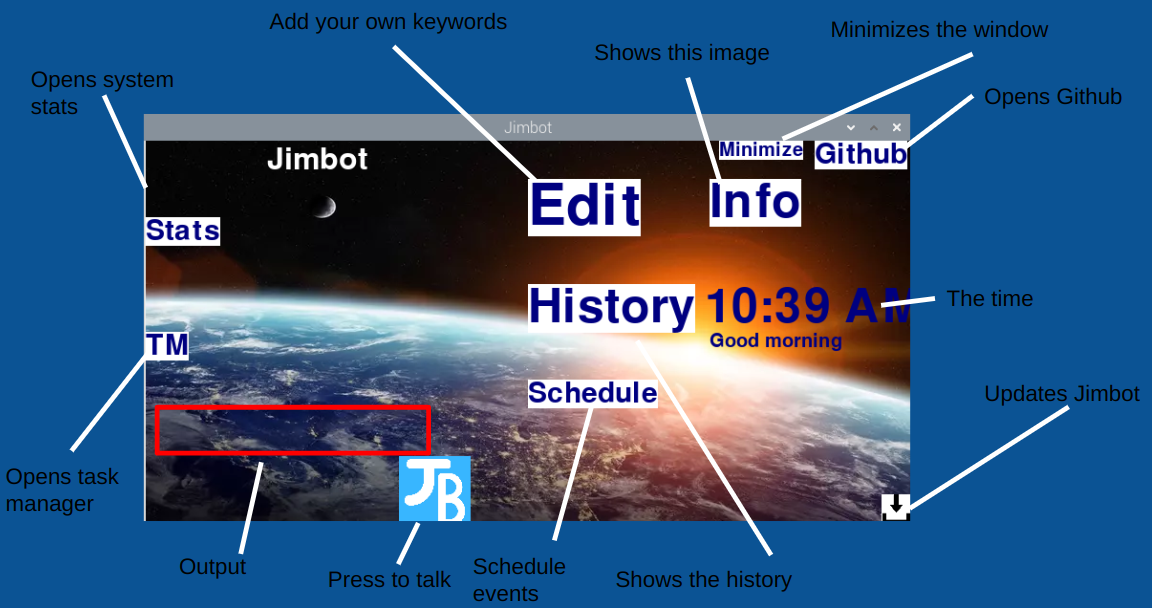
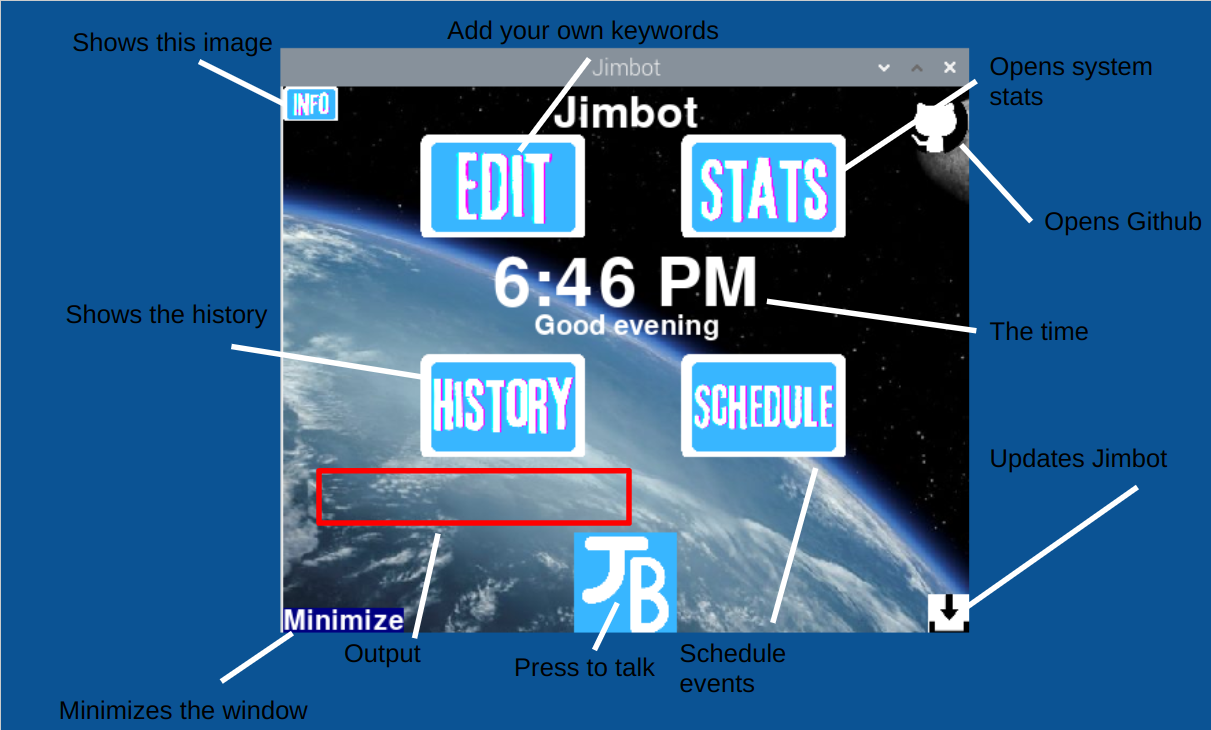
Made changes to UI

diff --git a/Python/Jimbot_Windows.py b/Python/Jimbot_Windows.py
@@ -71,8 +71,8 @@ import pygame
 pygame.init()
 white = (255, 255, 255)
 green = (0, 255, 0)
-blue = (0, 0, 128)
-X = 800
+blue = (56, 182, 255)
+X = 500
 Y = 400
 window_icon=pygame.image.load(file_location+'/Jimbot/images/Jimbot.png')
 display_surface = pygame.display.set_mode((X, Y))
@@ -81,23 +81,60 @@ pygame.display.set_icon(window_icon)
 font = pygame.font.Font('freesansbold.ttf', 32)
 header = font.render('Jimbot', True, white)
 textRect = header.get_rect()
-textRect.center = (180, 20)
+textRect.center = (250, 20)
 backg = pygame.image.load(backgn).convert()
 backg= pygame.transform.scale(backg, (800, 400))
-display_surface.fill(blue)
-display_surface.blit(pygame.font.Font('freesansbold.ttf', 60).render("Edit", True, blue, white), (400, 40))
-display_surface.blit(pygame.font.Font('freesansbold.ttf', 30).render("Github", True, blue, white), (700, 0))
-display_surface.blit(pygame.font.Font('freesansbold.ttf', 50).render("History", True, blue, white), (400, 150))
-display_surface.blit(pygame.font.Font('freesansbold.ttf', 50).render(currentTime, True, white, blue), (585, 150))
-display_surface.blit(pygame.font.Font('freesansbold.ttf', 20).render(tofdy, True, white, blue), (590, 200))
-display_surface.blit(pygame.font.Font('freesansbold.ttf', 50).render("Info", True, blue, white), (590, 40))
+display_surface.blit(backg, (-150, 0))
+    
+edit = pygame.image.load(file_location+"/Jimbot/images/Edit.png").convert_alpha()
+edit= pygame.transform.scale(edit, (120, 75))
+display_surface.blit(edit, (100, 35))
+    
+history = pygame.image.load(file_location+"/Jimbot/images/History.png").convert_alpha()
+history= pygame.transform.scale(history, (120, 75))
+display_surface.blit(history, (100, 195))
+    
+stats = pygame.image.load(file_location+"/Jimbot/images/Stats.png").convert_alpha()
+stats= pygame.transform.scale(stats, (120, 75))
+display_surface.blit(stats, (290, 35))
+    
+info = pygame.image.load(file_location+"/Jimbot/images/Info.png").convert_alpha()
+info= pygame.transform.scale(info, (40, 25))
+display_surface.blit(info, (0, 0))
+    
+        
+schedule = pygame.image.load(file_location+"/Jimbot/images/Schedule.png").convert_alpha()
+schedule= pygame.transform.scale(schedule, (120, 75))
+display_surface.blit(schedule, (290, 195))
+    
+    
+clock=pygame.font.Font('freesansbold.ttf', 50).render(currentTime, True, white)
+clockRect=clock.get_rect()
+clockRect.center=(250,145)
+display_surface.blit(clock, clockRect)
+    
+clockb=pygame.font.Font('freesansbold.ttf', 20).render(tofdy, True, white)
+clockRectb=clockb.get_rect()
+clockRectb.center=(250,175)
+display_surface.blit(clockb, clockRectb)
+    
+display_surface.blit(pygame.font.Font('freesansbold.ttf', 20).render("Minimize", True, white, blue), (0, 380))
+    
 display_surface.blit(header, textRect)
-pygame.draw.line(display_surface, white,
-                 [300, 300],
-                 [300, 0], 10)
+    
+dowb = pygame.image.load(file_location+"/Jimbot/images/downloadbutton.png").convert()
+dowb= pygame.transform.scale(dowb, (30, 30))
+display_surface.blit(dowb, (470, 370))
+    
 imp = pygame.image.load(file_location+"/Jimbot/images/Jimbot.png").convert()
 img= pygame.transform.scale(imp, (75, 75))
-display_surface.blit(img, (265, 330))
+display_surface.blit(img, (212.5, 325))
+    
+github = pygame.image.load(file_location+"/Jimbot/images/github.png").convert_alpha()
+github= pygame.transform.scale(github, (50, 50))
+pygame.draw.circle(display_surface, white, (475, 25),(23))
+display_surface.blit(github, (450, 0))
+    
 pygame.display.flip()
 pygame.display.update()
 # Print to the GUI
@@ -111,7 +148,7 @@ def print(bpg):
         tdply=bpg+"                                                                                                                             "
         bpg1 = font.render(tdply, True, white, blue)
         thi = bpg1.get_rect()
-        display_surface.blit(bpg1, (20, 300))
+        display_surface.blit(bpg1, (0, 300))
         pygame.display.update()
     else:
         pass
@@ -830,7 +867,7 @@ def refresh():
     if size == 1:
         normal()
         if switchsize == 1:
-            X = 800
+            X = 500
             Y = 400
             display_surface = pygame.display.set_mode((X, Y))
             switchsize=0  
@@ -842,33 +879,62 @@ def refresh():
             display_surface = pygame.display.set_mode((X, Y))
             switchsize=0
 def normal():
-    backg = pygame.image.load(backgn).convert()
-    backg= pygame.transform.scale(backg, (800, 400))
-    display_surface.blit(backg, (0, 0))
-    display_surface.blit(pygame.font.Font('freesansbold.ttf', 60).render("Edit", True, blue, white), (400, 40))
-    display_surface.blit(pygame.font.Font('freesansbold.ttf', 30).render("Github", True, blue, white), (700, 0))
-    display_surface.blit(pygame.font.Font('freesansbold.ttf', 50).render("History", True, blue, white), (400, 150))
-    if backgn == file_location+"/Jimbot/images/background.jpg":
-        display_surface.blit(pygame.font.Font('freesansbold.ttf', 50).render(currentTime, True, white), (585, 150))
-        display_surface.blit(pygame.font.Font('freesansbold.ttf', 20).render(tofdy, True, white), (590, 200))
-    else:
-        display_surface.blit(pygame.font.Font('freesansbold.ttf', 50).render(currentTime, True, blue), (585, 150))
-        display_surface.blit(pygame.font.Font('freesansbold.ttf', 20).render(tofdy, True, blue), (590, 200))
-    display_surface.blit(pygame.font.Font('freesansbold.ttf', 50).render("Info", True, blue, white), (590, 40))
-    display_surface.blit(pygame.font.Font('freesansbold.ttf', 30).render("Stats", True, blue, white), (0, 80))
-    display_surface.blit(pygame.font.Font('freesansbold.ttf', 30).render(TM_var, True, blue, white), (0, 200))
-    display_surface.blit(pygame.font.Font('freesansbold.ttf', 30).render("Schedule", True, blue, white), (400, 250))
-    display_surface.blit(pygame.font.Font('freesansbold.ttf', 20).render("Minimize", True, blue, white), (600, 0))
     header = font.render('Jimbot', True, white)
     textRect = header.get_rect()
-    textRect.center = (180, 20)
+    textRect.center = (250, 20)
+    backg = pygame.image.load(backgn).convert()
+    backg= pygame.transform.scale(backg, (800, 400))
+    display_surface.blit(backg, (-150, 0))
+    
+    edit = pygame.image.load(file_location+"/Jimbot/images/Edit.png").convert_alpha()
+    edit= pygame.transform.scale(edit, (120, 75))
+    display_surface.blit(edit, (100, 35))
+    
+    history = pygame.image.load(file_location+"/Jimbot/images/History.png").convert_alpha()
+    history= pygame.transform.scale(history, (120, 75))
+    display_surface.blit(history, (100, 195))
+    
+    stats = pygame.image.load(file_location+"/Jimbot/images/Stats.png").convert_alpha()
+    stats= pygame.transform.scale(stats, (120, 75))
+    display_surface.blit(stats, (290, 35))
+    
+    info = pygame.image.load(file_location+"/Jimbot/images/Info.png").convert_alpha()
+    info= pygame.transform.scale(info, (40, 25))
+    display_surface.blit(info, (0, 0))
+    
+        
+    schedule = pygame.image.load(file_location+"/Jimbot/images/Schedule.png").convert_alpha()
+    schedule= pygame.transform.scale(schedule, (120, 75))
+    display_surface.blit(schedule, (290, 195))
+    
+    
+    clock=pygame.font.Font('freesansbold.ttf', 50).render(currentTime, True, white)
+    clockRect=clock.get_rect()
+    clockRect.center=(250,145)
+    display_surface.blit(clock, clockRect)
+    
+    clockb=pygame.font.Font('freesansbold.ttf', 20).render(tofdy, True, white)
+    clockRectb=clockb.get_rect()
+    clockRectb.center=(250,175)
+    display_surface.blit(clockb, clockRectb)
+    
+    display_surface.blit(pygame.font.Font('freesansbold.ttf', 20).render("Minimize", True, white, blue), (0, 380))
+    
     display_surface.blit(header, textRect)
+    
     dowb = pygame.image.load(file_location+"/Jimbot/images/downloadbutton.png").convert()
     dowb= pygame.transform.scale(dowb, (30, 30))
-    display_surface.blit(dowb, (770, 370))
+    display_surface.blit(dowb, (470, 370))
+    
     imp = pygame.image.load(file_location+"/Jimbot/images/Jimbot.png").convert()
     img= pygame.transform.scale(imp, (75, 75))
-    display_surface.blit(img, (265, 330))
+    display_surface.blit(img, (gameypos, 325))
+    
+    github = pygame.image.load(file_location+"/Jimbot/images/github.png").convert_alpha()
+    github= pygame.transform.scale(github, (50, 50))
+    pygame.draw.circle(display_surface, white, (475, 25),(23))
+    display_surface.blit(github, (450, 0))
+    
     pygame.display.update()
 def minimize():
     global header
@@ -911,19 +977,19 @@ def print(bpg):
     else:
         pass
 #Easter egg
-ax1=random.choice(range(0,800))
+ax1=random.choice(range(0,500))
 ay1=0
 
-ax2=random.choice(range(0,800))
+ax2=random.choice(range(0,500))
 ay2=random.choice(range(-100,0))
 
-ax3=random.choice(range(0,800))
+ax3=random.choice(range(0,500))
 ay3=random.choice(range(-200,-100))
 
-ax4=random.choice(range(0,800))
+ax4=random.choice(range(0,500))
 ay4=random.choice(range(-300,-200))
 
-ax5=random.choice(range(0,800))
+ax5=random.choice(range(0,500))
 ay5=random.choice(range(-500,-400))
 
 gamescore=0
@@ -966,11 +1032,13 @@ user_text=''
 resthre=0
 spekretno=0
 brkbt=False
-gameypos=265
+gameypos=212.5
 refresh()
 f10k=False
 # No longer defining things
 while True:
+    # Set up UI
+    refresh()
     # Tell when/what key is pressed
     keyi=pygame.key.get_pressed()
     keypressed=False
@@ -1006,31 +1074,23 @@ while True:
         backgn=file_location+"/Jimbot/images/backgroundm.jpg"
     else:
         backgn=file_location+"/Jimbot/images/background.jpg"
-    # Set up Task Manager button
-    x, y =pygame.mouse.get_pos()
-    if x<=45 and y>=200 and y<=230:
-        TM_var="Task Manager"
-        refresh()
-    else:
-        TM_var="TM"
-        refresh()
     # Set up buttons and inputs
     brk =0
     for event in pygame.event.get():
         # Easter egg
-        ax1=random.choice(range(0,800))
+        ax1=random.choice(range(0,500))
         ay1=0
 
-        ax2=random.choice(range(0,800))
+        ax2=random.choice(range(0,500))
         ay2=random.choice(range(-100,0))
 
-        ax3=random.choice(range(0,800))
+        ax3=random.choice(range(0,500))
         ay3=random.choice(range(-200,-100))
 
-        ax4=random.choice(range(0,800))
+        ax4=random.choice(range(0,500))
         ay4=random.choice(range(-300,-200))
 
-        ax5=random.choice(range(0,800))
+        ax5=random.choice(range(0,500))
         ay5=random.choice(range(-500,-400))
         gamescore=0
         if event.type == pygame.KEYDOWN and event.key == pygame.K_LEFT or event.type == pygame.KEYDOWN and event.key == pygame.K_RIGHT:
@@ -1098,6 +1158,7 @@ while True:
             if size == 1:
                 print('Game over. Score: '+str(gamescore))
                 time.sleep(3)
+                gameypos=212.5
         elif event.type == pygame.KEYDOWN and event.key == pygame.K_DOWN:
             break
         elif event.type == pygame.KEYDOWN and event.key == pygame.K_UP:
@@ -1190,9 +1251,9 @@ while True:
             if brkbt==True or event.type == pygame.KEYDOWN or keypressed==True:
                 brkbt=False
                 break
-            elif f10k==False and x >=700 and y <= 35 and not spekret == 1:
+            elif f10k==False and x>=450 and y>=0 and x<=500 and y<=50 and not spekret == 1:
                 os.system('xdg-open https://github.com/Mrpi314tech/Jimbot &')
-            elif f10k==False and x >=400 and x<= 515 and y >= 40 and y <= 100 and not spekret == 1:
+            elif f10k==False and x>=100 and y>=35 and x<=220 and y<=110 and not spekret == 1:
                 os.system('~/Jimbot/Bash/Jimbotterminal python3 '+file_location+'/Jimbot/Python/Jimbotedit.py &')
                 try:
                     import new_words as aword
@@ -1204,29 +1265,29 @@ while True:
                     import Python.new_com as acom
                 nwcoml=acom.word
                 nrunl=acom.com
-            elif f10k==False and x >=590 and x<= 685 and y >= 40 and y <= 90 and not spekret == 1:
+            elif f10k==False and x>=0 and y>=0 and x<=40 and y<=25 and not spekret == 1:
                 os.system("xdg-open "+file_location+"/Jimbot/images/HowTo.jpg &")
-            elif f10k==False and x >=400 and x<= 570 and y >= 150 and y <= 200 and not spekret == 1:
+            elif f10k==False and x>=100 and y>=195 and x<=220 and y<=270 and not spekret == 1:
                 os.system('~/Jimbot/Bash/Jimbotterminal "cat ~/Jimbot/Python/skills/history.py && sleep 300" &')
-            elif f10k==False and x<=45 and y>=200 and y<=230:
-                os.system('~/Jimbot/Bash/Jimbotterminal htop &')
-            elif f10k==False and x>=400 and y>=250 and y<=280 and x<=535:
+            #elif f10k==False and x<=45 and y>=200 and y<=230:
+                #os.system('~/Jimbot/Bash/Jimbotterminal htop &')
+            elif f10k==False and x>=290 and y>=195 and x<=410 and y<=270:
                 os.system('~/Jimbot/Bash/Jimbotterminal ~/Jimbot/Bash/schedule.sh &')
-            elif f10k==False and x<75 and y>=80 and y<=110:
+            elif f10k==False and x>=290 and y>=35 and x<=410 and y<=110:
                 os.system('python3 ~/Jimbot/Python/stats.py &')
-            elif f10k==False and x>=600 and x<=685 and y<=15:
+            elif f10k==False and x>=0 and y>=380 and x<=90 and y<=400:
                 size=2
                 switchsize=1
             elif f10k==False and x>=265 and y>=135 and size ==2:
                 size=1
                 switchsize=1
-            elif f10k==False and x>=770 and y>=370:
+            elif f10k==False and x>=470 and y>=370 and x<=500 and y<=400:
                 print('Updating Jimbot...')
                 os.system('~/Jimbot/Bash/Jimbotterminal ~/Jimbot_update.sh')
                 prints('exiting...')
                 os.system('sudo pkill -f Jimbot')
                 exit()
-            if f10k == True or x >=265 and x<= 340 and y >= 340 or spekret==1 and spekretno ==0 or event.type == pygame.KEYDOWN and event.key == pygame.K_RETURN and spekretno ==0:
+            if f10k == True or x>=210 and y>=330 and x<=285 and y<=400 or spekret==1 and spekretno ==0 or event.type == pygame.KEYDOWN and event.key == pygame.K_RETURN and spekretno ==0:
                 # Press button/enter to speak
                 # Reset variables
                 spekret=0
